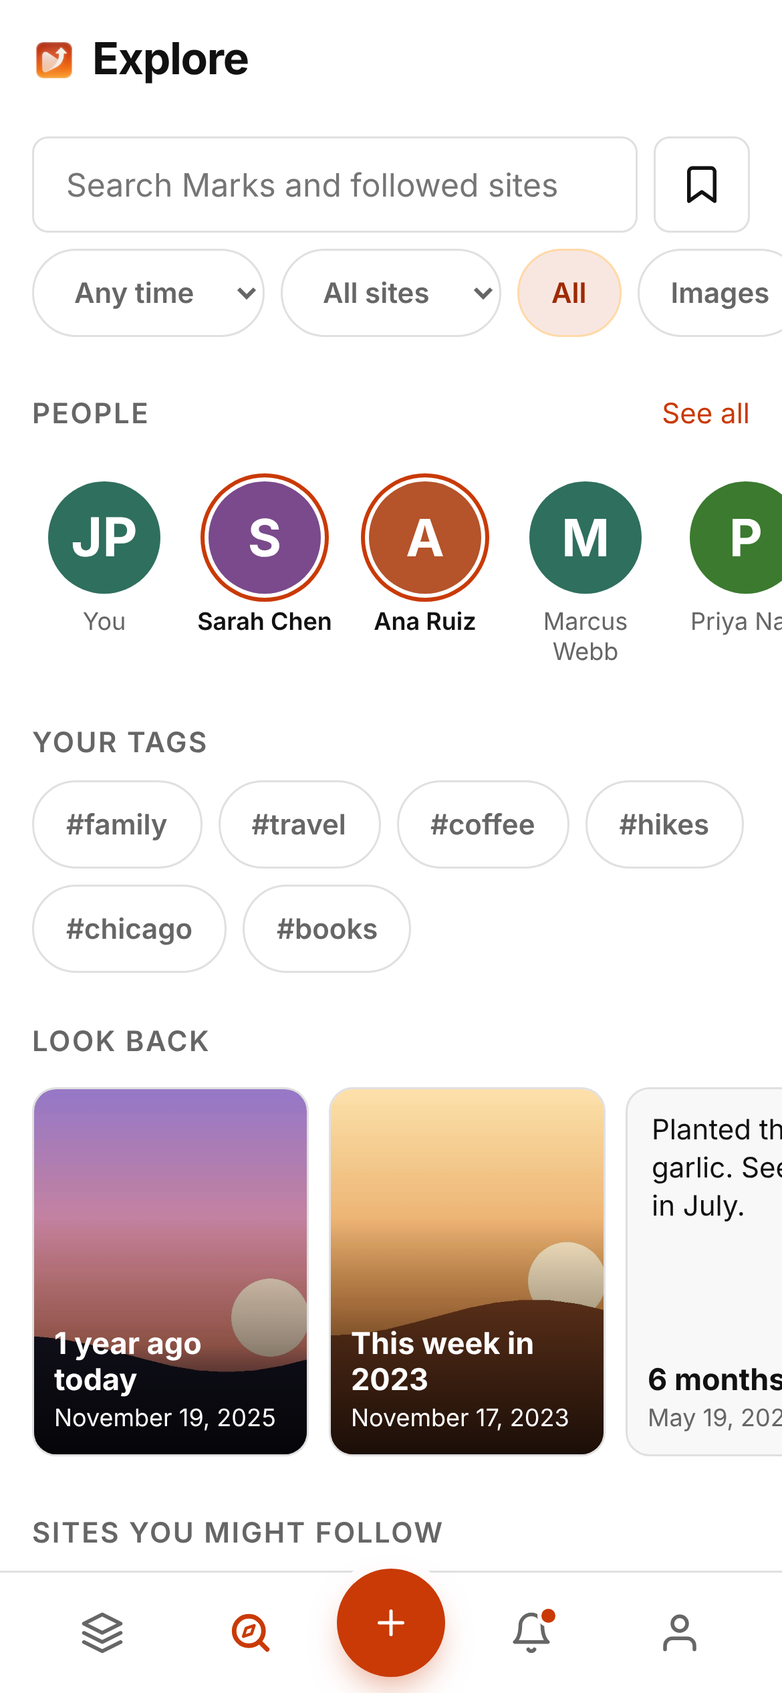
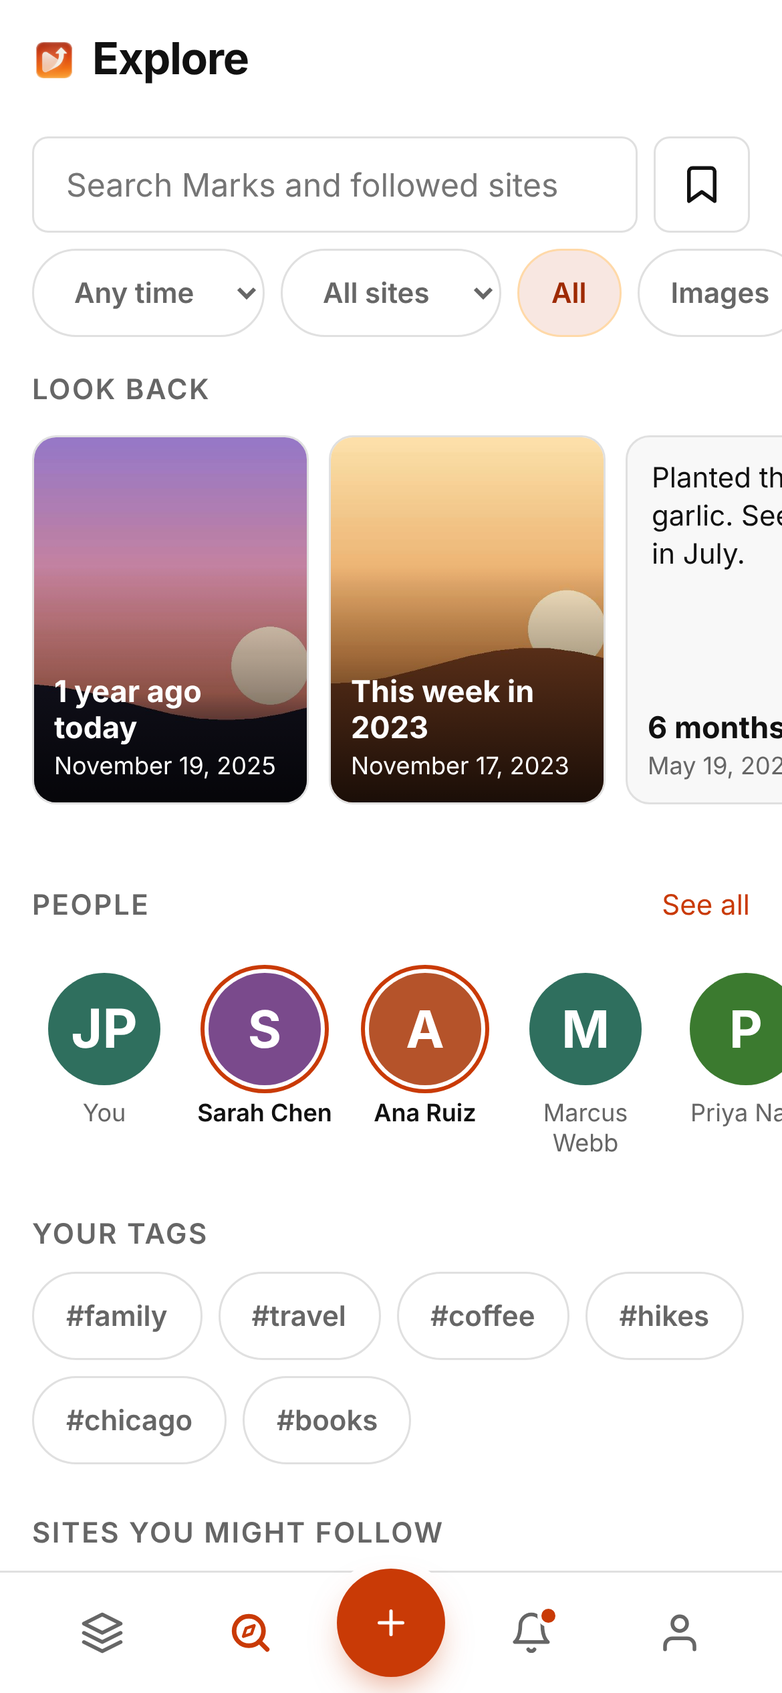
Explore: Look back moves up, just above People (#637)
On Explore, Look back now sits just above the People row, so your own memories are the first thing under the search box (and under your recent searches, when you have any) without scrolling past People and Your tags.

diff --git a/tests/e2e/daymark.spec.js b/tests/e2e/daymark.spec.js
@@ -3618,14 +3618,15 @@ test('search: on the Explore tab, a query + type filter narrow the results', asy
 });
 
 // Explore and Search are one tab (issue #269): search on top with the
-// Bookmarks button beside it, and under its starting screen Look back.
+// Bookmarks button beside it, and on its starting screen Look back, just
+// above the People row.
 // Bookmarks and a followed site search in place instead of leaving for
 // another screen. The sites you follow are the People row, whoever posted
 // last first; the full list of them is a page under Me, not a second list
 // down here. The followed sites are canned, so the test needs no real
 // feed, and "Look back" is handed a Mark from today, since a test site
 // has none from earlier years.
-test('explore: search on top with Bookmarks beside it, People by latest post, Look back below', async ({ page }) => {
+test('explore: search on top with Bookmarks beside it, Look back above People by latest post', async ({ page }) => {
 	const memory = `E2E memory ${RUN_ID}`;
 
 	await loginAs(page);
@@ -3692,15 +3693,12 @@ test('explore: search on top with Bookmarks beside it, People by latest post, Lo
 
 	const input = page.locator('[data-search-input]');
 	const start = page.locator('[data-search-start]');
-	const sections = page.locator('[data-explore-sections]');
 	const list = page.locator('[data-search-results]');
 	const source = page.locator('[data-source-filter]');
 
-	// At rest: the search box, the starting screen, then Explore's own
-	// sections under it, in that order.
+	// At rest: the search box, then the starting screen under it.
 	await expect(input).toBeVisible();
 	await expect(start).toBeVisible();
-	await expect(sections).toBeVisible();
 	await expect(list).toBeHidden();
 	// Bookmarks sits beside the search box: on the same row, inside the
 	// screen, a full-size tap target, and not down among the sections.
@@ -3708,7 +3706,7 @@ test('explore: search on top with Bookmarks beside it, People by latest post, Lo
 	await expect(bookmarks).toBeVisible();
 	await expect(bookmarks).toHaveAccessibleName('Bookmarks');
 	await expect(bookmarks).toHaveAttribute('aria-pressed', 'false');
-	await expect(sections.locator('[data-explore-bookmarks]')).toHaveCount(0);
+	await expect(start.locator('[data-explore-bookmarks]')).toHaveCount(0);
 	const inputBox = await input.boundingBox();
 	const bookmarksBox = await bookmarks.boundingBox();
 	expect(bookmarksBox.x).toBeGreaterThan(inputBox.x + inputBox.width);
@@ -3716,12 +3714,20 @@ test('explore: search on top with Bookmarks beside it, People by latest post, Lo
 	expect(Math.abs(bookmarksBox.y - inputBox.y)).toBeLessThanOrEqual(2);
 	expect(bookmarksBox.width).toBeGreaterThanOrEqual(44);
 	expect(bookmarksBox.height).toBeGreaterThanOrEqual(44);
-	const memories = sections.locator('[data-explore-lookback]');
+	const memories = start.locator('[data-explore-lookback]');
 	await expect(memories.getByText(memory).first()).toBeVisible();
 	await expect(memories.locator('.daymark-lookback__when')).toHaveText('2 years ago today');
+	// Look back sits just above the People row: on the screen, and in the
+	// page's own order, which is what a screen reader and the Tab key
+	// follow. (No search has been made yet, so nothing is above it.)
+	expect((await start.locator('h2').allTextContents()).slice(0, 2)).toEqual(['Look back', 'People']);
 	const order = await page.evaluate(() => {
 		const top = (selector) => document.querySelector(selector).getBoundingClientRect().top;
-		return [top('[data-search-input]'), top('[data-search-start]'), top('[data-explore-sections]')];
+		return [
+			top('[data-search-input]'),
+			top('#daymark-explore-lookback-heading'),
+			top('#daymark-search-people-heading'),
+		];
 	});
 	expect(order[0]).toBeLessThan(order[1]);
 	expect(order[1]).toBeLessThan(order[2]);
@@ -3738,21 +3744,19 @@ test('explore: search on top with Bookmarks beside it, People by latest post, Lo
 	// site button: both are on Me's Following page.
 	await expect(page.locator('[data-explore-following]')).toHaveCount(0);
 	// (A suggested site's own Follow button is a different thing.)
-	await expect(sections.locator('[data-follow-site]:not(.daymark-suggest__follow)')).toHaveCount(0);
-	await expect(sections.getByRole('heading', { name: 'Following' })).toHaveCount(0);
+	await expect(start.locator('[data-follow-site]:not(.daymark-suggest__follow)')).toHaveCount(0);
+	await expect(start.getByRole('heading', { name: 'Following' })).toHaveCount(0);
 
 	// A followed site shows its posts right here: same tab, the Source
-	// filter set, and the sections out of the way of the results.
+	// filter set, and the starting screen out of the way of the results.
 	await start.locator('[data-start-source="990002"]').click();
 	await expect(source).toHaveValue('990002');
 	await expect(page).toHaveURL(/\/daymark\/explore\/?(#explore)?$/);
-	await expect(sections).toBeHidden();
 	await expect(start).toBeHidden();
 	await expect(list).toBeVisible();
 
-	// Letting go of the site brings the sections back.
+	// Letting go of the site brings the starting screen back.
 	await source.selectOption('');
-	await expect(sections).toBeVisible();
 	await expect(start).toBeVisible();
 
 	// Bookmarks works the same way: it stays pressed and says what it is
@@ -3760,26 +3764,26 @@ test('explore: search on top with Bookmarks beside it, People by latest post, Lo
 	await bookmarks.click();
 	await expect(bookmarks).toHaveAttribute('aria-pressed', 'true');
 	await expect(page.locator('[data-search-bookmarks-banner]')).toBeVisible();
-	await expect(sections).toBeHidden();
+	await expect(start).toBeHidden();
 	await expect(list).toBeVisible();
 	await bookmarks.click();
 	await expect(bookmarks).toHaveAttribute('aria-pressed', 'false');
 	await expect(page.locator('[data-search-bookmarks-banner]')).toBeHidden();
-	await expect(sections).toBeVisible();
+	await expect(start).toBeVisible();
 
 	// "Show everything" lets go too, and the button follows.
 	await bookmarks.click();
 	await expect(bookmarks).toHaveAttribute('aria-pressed', 'true');
 	await page.locator('[data-search-clear-bookmarks]').click();
 	await expect(bookmarks).toHaveAttribute('aria-pressed', 'false');
-	await expect(sections).toBeVisible();
+	await expect(start).toBeVisible();
 
 	// Typing searches as it always did.
 	await input.fill(`nothing-matches-${RUN_ID}`);
-	await expect(sections).toBeHidden();
+	await expect(start).toBeHidden();
 	await expect(list).toContainText('Nothing matches');
 	await input.fill('');
-	await expect(sections).toBeVisible();
+	await expect(start).toBeVisible();
 
 	// A "Look back" tile opens the post, and Back returns to Explore
 	// with the tile still there.
@@ -6336,11 +6340,15 @@ test('explore: Sites you might follow suggests someone who replied, offers Follo
 	await expect(row.locator('.daymark-suggest__why')).toHaveText('Replied to 1 of your Marks');
 	// The list stays short.
 	expect(await section.locator('[data-suggest-key]').count()).toBeLessThanOrEqual(5);
-	// It comes after Look back, as the last thing on Explore.
+	// It is the last thing on Explore: after Look back, and after the
+	// People row under that.
 	const lookBack = page.locator('[data-explore-lookback]');
 	if ((await lookBack.count()) > 0) {
 		expect((await section.boundingBox()).y).toBeGreaterThan((await lookBack.boundingBox()).y);
 	}
+	expect((await section.boundingBox()).y).toBeGreaterThan(
+		(await page.locator('#daymark-search-people-heading').boundingBox()).y
+	);
 
 	// Both actions are full-size tap targets.
 	const follow = row.locator('[data-follow-site]');

diff --git a/assets/app.js b/assets/app.js
@@ -10837,6 +10837,10 @@
 						index === 0 ? 'true' : 'false'
 					}">${esc(filter.label)}</button>`
 			).join('');
+			// [data-search-start] is Explore at rest, top to bottom: recent
+			// searches, Look back, People and Your tags, Sites you might
+			// follow. renderStart() fills the two parts either side of Look
+			// back, which starts hidden when the last visit found it empty.
 			return `
 			<header class="daymark-topbar">
 				${daymarkIconLink()}
@@ -10895,9 +10899,11 @@
 						__('Show everything', 'daymark')
 					)}</button>
 				</p>
-				<div class="daymark-searchstart" data-search-start hidden></div>
-				<div class="daymark-exploresections" data-explore-sections hidden>
-					<section class="daymark-recent" aria-labelledby="daymark-explore-lookback-heading">
+				<div class="daymark-searchstart" data-search-start hidden>
+					<div class="daymark-searchstart__part" data-start-recent></div>
+					<section class="daymark-recent" aria-labelledby="daymark-explore-lookback-heading"${
+						this._lookBackEmpty ? ' hidden' : ''
+					}>
 						<h2 id="daymark-explore-lookback-heading" class="daymark-section-heading">${esc(
 							__('Look back', 'daymark')
 						)}</h2>
@@ -10906,6 +10912,7 @@
 							<span class="daymark-visually-hidden">${esc(__('Loading', 'daymark'))}</span>
 						</div>
 					</section>
+					<div class="daymark-searchstart__part" data-start-people></div>
 					${
 						config.canManageSubscriptions
 							? `<section class="daymark-recent" aria-labelledby="daymark-explore-suggest-heading" data-explore-suggest-section hidden>
@@ -11089,9 +11096,8 @@
 			this.searchTag = null;
 			this.searchPlace = '';
 			// The most-used tags and the followed sites are kept from the
-			// last visit and shown at once, then refreshed. Coming back
-			// from a "Look back" tile, the sections above it are then
-			// already their full height, so the strip doesn't move.
+			// last visit and shown at once, then refreshed, so the screen
+			// under "Look back" doesn't grow while it is being read.
 			this._topTags = this._topTags || null;
 			this._subscriptions = this._subscriptions || [];
 			this._suggestions = null;
@@ -11203,10 +11209,16 @@
 			if (!list || !list.isConnected) {
 				return;
 			}
+			// Remembered for the next visit (see render()): "Look back" is
+			// above the People row, so a strip that turns out to be empty
+			// would otherwise pull the row up each time Explore opens.
+			this._lookBackEmpty = !this._memories.length;
+			const section = list.closest('section');
 			if (!this._memories.length) {
-				list.closest('section').remove();
+				section.remove();
 			} else {
 				list.innerHTML = this._memories.map((item) => renderLookBackTile(item)).join('');
+				section.hidden = false;
 			}
 			if (this.isIdle()) {
 				this.useMemoriesAsItems();
@@ -11456,17 +11468,13 @@
 			);
 		},
 
-		// Swaps between the screen at rest (the starting screen and the
-		// sections under it) and the results.
+		// Swaps between the screen at rest (the starting screen) and the
+		// results.
 		showStart(show) {
 			const start = root.querySelector('[data-search-start]');
-			const sections = root.querySelector('[data-explore-sections]');
 			const results = root.querySelector('[data-search-results-section]');
 			if (start) {
 				start.hidden = !show;
-			}
-			if (sections) {
-				sections.hidden = !show;
 			}
 			if (results) {
 				results.hidden = show;
@@ -11476,11 +11484,15 @@
 			}
 		},
 
-		// The starting screen: recent searches, the people you follow, and
-		// your most used tags. Each part is left out when it has nothing.
+		// The starting screen's own parts: recent searches above "Look
+		// back", then the people you follow and your most used tags under
+		// it. Each is left out when it has nothing. "Look back" and "Sites
+		// you might follow" sit in the same container and are filled by
+		// their own loaders, so drawing these again leaves them alone.
 		renderStart() {
-			const start = root.querySelector('[data-search-start]');
-			if (!start) {
+			const recentPart = root.querySelector('[data-start-recent]');
+			const peoplePart = root.querySelector('[data-start-people]');
+			if (!recentPart || !peoplePart) {
 				return;
 			}
 			const recent = recentSearches();
@@ -11586,7 +11598,8 @@
 				</section>`
 				: '';
 
-			start.innerHTML = recentHtml + peopleHtml + tagsHtml;
+			recentPart.innerHTML = recentHtml;
+			peoplePart.innerHTML = peopleHtml + tagsHtml;
 		},
 
 		onStartClick(event) {

diff --git a/assets/app.css b/assets/app.css
@@ -5273,8 +5273,9 @@ a.daymark-meconn__row:focus-visible .daymark-melink__external {
 
 /* --- Search: starting screen (issue #269) --- */
 
-/* What Search shows before anything is typed or chosen: recent searches,
-   the people you follow, and your most used tags. */
+/* What Explore shows before anything is typed or chosen: recent searches,
+   Look back, the people you follow, your most used tags, and Sites you
+   might follow. */
 .daymark-searchstart {
 	display: flex;
 	flex-direction: column;
@@ -5285,16 +5286,11 @@ a.daymark-meconn__row:focus-visible .daymark-melink__external {
 	display: none;
 }
 
-/* Explore at rest: Look back, under the starting screen's recent
-   searches, people and tags. */
-.daymark-exploresections {
-	display: flex;
-	flex-direction: column;
-	gap: var(--daymark-spacing-lg);
-}
-
-.daymark-exploresections[hidden] {
-	display: none;
+/* The two parts renderStart() redraws (recent searches; people and tags),
+   either side of Look back. Their sections are spaced as the starting
+   screen's own, and an empty part takes no room. */
+.daymark-searchstart__part {
+	display: contents;
 }
 
 /* Look back: small tiles that scroll sideways, edge to edge, like the

diff --git a/docs/architecture-decisions.md b/docs/architecture-decisions.md
@@ -288,3 +288,4 @@ means CLAUDE.md's Non-goals section.
 | readme.txt stays inside wordpress.org's limits, and Plugin Check warnings block a PR (Unreleased) | wordpress.org's readme parser (`plugin-directory/readme/class-parser.php`, `$maximum_field_lengths`) shows 2,500 words of a section, 5,000 for the FAQ and the Changelog, and adds any section it has no place for to the Description; an upgrade notice may be 300 characters. Four things keep `readme.txt` inside that. `bin/sync-changelog.sh` drops the oldest release until the generated changelog is within `MAX_WORDS` (4,800), keeping at most `MAX_VERSIONS` and always the newest. The Description's "External services" lists only services someone else runs (embeds, Bridgy Fed, WordPress.com, OpenStreetMap, Open-Meteo, push services, the AI provider), with one WordPress.com entry in place of three; requests to sites and servers the person chose (feeds, WebSub, bookmarked images, comments and likes, replies, follow notices, received Webmentions, Microsub import, and the detail of link previews) moved, wording kept, to the FAQ entry "What does my site send to the sites I follow?". The Upgrade Notice section holds the five most recent releases, each within 300 characters. And the Plugin Check job runs with `strict: true`, so a warning fails a PR the way an error does; Plugin Check carries the same readme parser, so it reports a section or notice that is over. The 25 warnings it had at 0.23.0 were cleared first: the two readme sections, fifteen upgrade notices, and eight in PHP. Of those eight, the Search place-shortcut query no longer builds part of its SQL from a variable (it passes a prepared `%d` flag instead), and seven are deliberate (`ini_set` for the memory limit, a one-post `post__not_in`, a `meta_value` order-by, the Like Mark `NOT EXISTS` clause) and carry a `phpcs:ignore` with the reason. | The first import of 0.23.0 (2026-11-19) warned that the Description (3,230 words) and the Changelog (9,244) were truncated: the plugin page stopped partway through "External services" and inside the 0.20.0 changelog. Plugin Check had reported both on every PR, but as warnings in the log of a job that stayed green, so nobody saw them until wordpress.org's own notice after the release. Strict mode was chosen over a separate word-count script because the tool that already knows the rules should be the one that blocks; a false positive is answered where it happens, with a `phpcs:ignore` and a reason. Moving text was chosen over cutting it: nothing a site owner is told about outside requests was dropped, and the mission and feature text in the Description was left alone. Both the Description (about 2,400) and the FAQ (about 4,400) are now close to their limits, so the next long addition will need an older FAQ entry trimmed. |
 | The New Mark button has a hover title like the tabs (Unreleased) | The launcher's plus button (`[data-action="new-mark"]` in `navFooterMarkup()`) now carries `title="New Mark"`, the same translated string as its `aria-label`. The title sits on the button, not on the `[data-launcher]` wrapper, so the wrapper is still the one child of the nav with no title. It stays "New Mark" while the launcher is open, as the `aria-label` does. | Jeff noticed (2026-11-20) that hovering Timeline, Explore, Notifications and Me named each one, while the plus between them showed nothing. Same mechanism as the tabs (the browser's own `title` tooltip), so no new CSS and nothing changes on a touch screen. |
 | Settings -> Daymark -> General: one form, one Save button (Unreleased) | Requested directly by Jeff on 2026-11-20: the General tab had a Save button in each of its eight sections, which cluttered the page. `render_general_tab()` now wraps every setting in one `<form>` (`admin_post_daymark_general_save`, nonce `daymark_general_save`) with one primary "Save changes" button at the bottom; the `render_*_form()` methods print their fields only. `handle_general_save()` checks the capability and nonce once, then saves each section: the five checkboxes from `general_toggles()` (blogroll, tell sites you follow them, Notes off the home page, compact list, app badge), `save_publishing_defaults()`, `save_poll_interval()` and `save_reading_font()`. The eight per-section `admin_post_*` actions and their `handle_*_save()` methods are gone (older rows that name them describe how each setting first shipped), and the eight per-section notices became one "Settings saved." (`general_saved`). Three rules come with sending every setting at once. **A setting code has overridden is skipped on save**: its control is disabled, so the browser doesn't send it, and treating that as "unticked" would flip the stored option (the Data & privacy tab already worked this way). **The New Marks defaults are written only when a box changed**, so a site that never set its own defaults stays on the built-in ones rather than having them frozen into the option by an unrelated save. **A refused value doesn't block the rest**: a web font address that isn't a font file leaves the Reading section as it was, every other section is saved, and the error notice ends "Your other changes were saved." The Data & privacy tab was already one form; the Connectors tab's Bridgy Fed checkbox keeps its own button, since it sits inside one connector's card. | One button is what WordPress's own settings screens do, and it is what someone expects: change a few things, save once. With a button per section, a change made in one section was silently lost when the Save in another was pressed, because each button sent only its own form. Saving the valid sections and reporting the refused one was chosen over refusing the whole page, because the page reloads from what is stored and a single typo would otherwise discard every other change made in that visit. |
+| Explore: Look back above People (Unreleased) | Jeff asked on 2026-11-20 for the Look back cards to move up, to just above the People section. **Order at rest** (`ExploreScreen`, `assets/app.js`): the search box and filters, Recent searches (when there are any), Look back, People, Your tags, Sites you might follow. This replaces the order in the "Explore and Search as one tab" and "Explore: Look back strip" rows, where Look back came after Your tags; Sites you might follow is still last. **One container**: everything Explore shows at rest is now inside `[data-search-start]`, and the separate `[data-explore-sections]` wrapper (and `.daymark-exploresections`) is gone. `renderStart()` used to replace the whole starting screen; it now fills two parts, `[data-start-recent]` (recent searches) and `[data-start-people]` (People and Your tags), either side of the Look back section, so redrawing them never touches the strip or the suggestions, which their own loaders fill. The parts are `display: contents`, so their sections are spaced like the rest and an empty part takes no room. The order is the page's own order, not a CSS `order`, so a screen reader and the Tab key meet the sections in the order they are seen. **Empty strip**: with the strip above People, a site with nothing to look back on would show three placeholder tiles and then pull People up each time Explore opens. `showMemories()` now remembers whether the last answer was empty (`_lookBackEmpty`, kept on the screen object for the life of the app session), and `render()` then starts the section hidden; `GET /look-back` is still asked each visit, and the section comes back as soon as it has a post. The first Explore visit of a session still shows the placeholders once. | Look back is the part of Explore that is the owner's own and changes every day, and it was below the fold on a phone: under the search box, the filters, People and two rows of tags. Recent searches stay directly under the search box because they belong to it. Moving the section in the page, not only on screen, keeps reading order and focus order true to what is seen. Remembering an empty answer in memory, with no stored setting, is the same approach the screen already takes for tags and followed sites (kept from the last visit, then refreshed). |

diff --git a/CLAUDE.md b/CLAUDE.md
@@ -463,7 +463,7 @@ implication for the codebase.
 - wp-admin chrome or site management features inside the Daymark app shell's own UI — the app shell stays focused on day-to-day operational use (reading the Timeline, publishing content). Infrequently-touched configuration/settings (e.g. subscription management, `rel=me`) belong in wp-admin instead, outside the app shell — see the architectural decisions table for the confirmed instances of this. Not a ban on Daymark ever having a wp-admin screen; see the row above for the current thinking on eventually migrating some of this into an in-app settings screen.
 - Multi-user or team workflows beyond standard WordPress roles
 - Full offline PWA mode. Narrowed twice now: offline **creation** for a session already open when connectivity drops (issue #121), and a **cold load** of `/daymark` itself with zero connectivity (issue #126) — see "Offline-first creation" and "Cold-offline-load support" in the architectural decisions table for both. Still out of scope: general offline **reading** — Timeline/notifications/Explore/Search still require connectivity even on the offline-fallback shell (conservative SW only; only the shell itself, its static assets, and a redacted config are ever cached, never a REST response).
-- A finished Explore, beyond its current foundation (search on top with Bookmarks beside it, then the People row and "Look back"; see the "Explore and Search as one tab" and "Explore: Look back strip" decisions) — "Sites you might follow" suggests only from the owner's own circle (see that decision); highlights, hand-built collections, a separate Favorites, recently-popular, and suggestions from outside that circle were decided against when issue #294 closed, so don't add them without a new ask
+- A finished Explore, beyond its current foundation (search on top with Bookmarks beside it, then "Look back" and the People row; see the "Explore and Search as one tab", "Explore: Look back strip" and "Explore: Look back above People" decisions) — "Sites you might follow" suggests only from the owner's own circle (see that decision); highlights, hand-built collections, a separate Favorites, recently-popular, and suggestions from outside that circle were decided against when issue #294 closed, so don't add them without a new ask
 - Speculative AI or semantic search — Search stays keyword + explicit filters (type, source/person followed, date, tag, and Check In place exist today; see the Search starting screen and shortcuts decision)
 
 ## Strategic line

diff --git a/README.md b/README.md
@@ -16,7 +16,7 @@
 <p align="center">
   <img src=".wordpress-org/screenshot-1.png" width="30%" alt="The Daymark Timeline on a phone: a friend's photo post, then your own, in one feed." />
   <img src=".wordpress-org/screenshot-2.png" width="30%" alt="The New Mark composer: two photos, a caption, where the Mark goes, and a Publish button." />
-  <img src=".wordpress-org/screenshot-4.png" width="30%" alt="Explore: search, the people you follow, your tags, and Look back." />
+  <img src=".wordpress-org/screenshot-4.png" width="30%" alt="Explore: search, Look back, the people you follow, and your tags." />
 </p>
 
 ## Your friends, your feed, your site

diff --git a/CHANGELOG.md b/CHANGELOG.md
@@ -27,6 +27,7 @@ can't act on them.
 ### Changed
 
 - Settings -> Daymark -> General now has one "Save changes" button at the bottom, in place of a Save button in each of its eight sections. One press saves everything on the page, so a change in one section is no longer lost by pressing Save in another. ([#635](https://github.com/jeffpaul/daymark/pull/635))
+- On Explore, Look back now sits just above the People row, so your own memories are the first thing under the search box (and under your recent searches, when you have any) without scrolling past People and Your tags. ([#637](https://github.com/jeffpaul/daymark/pull/637))
 
 ### Fixed
 
